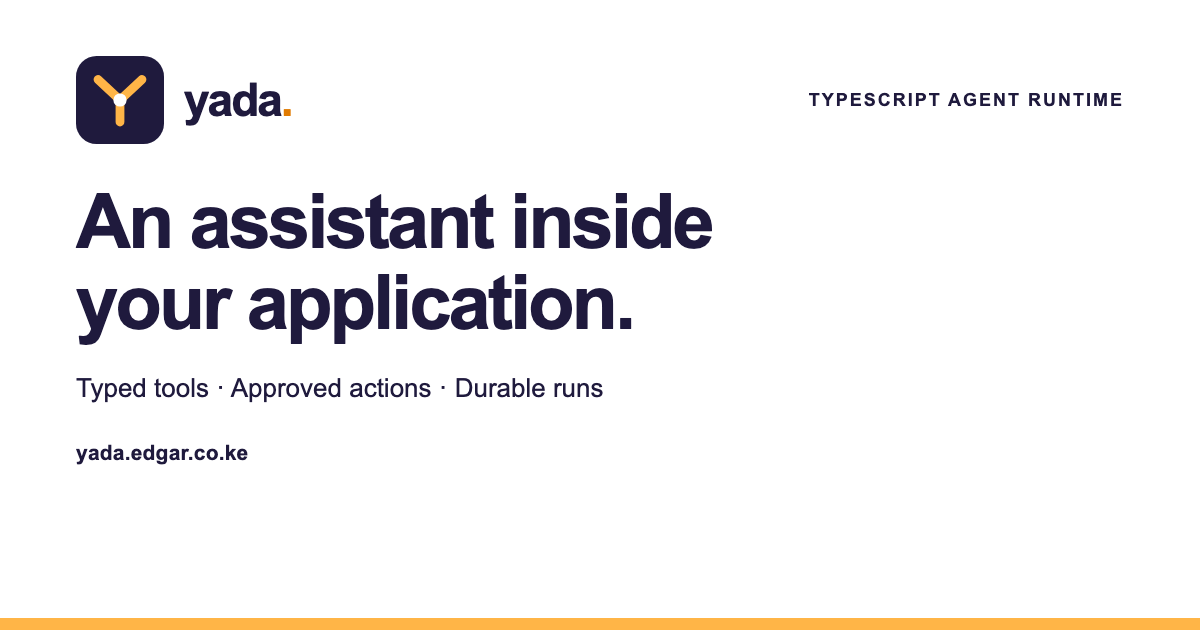
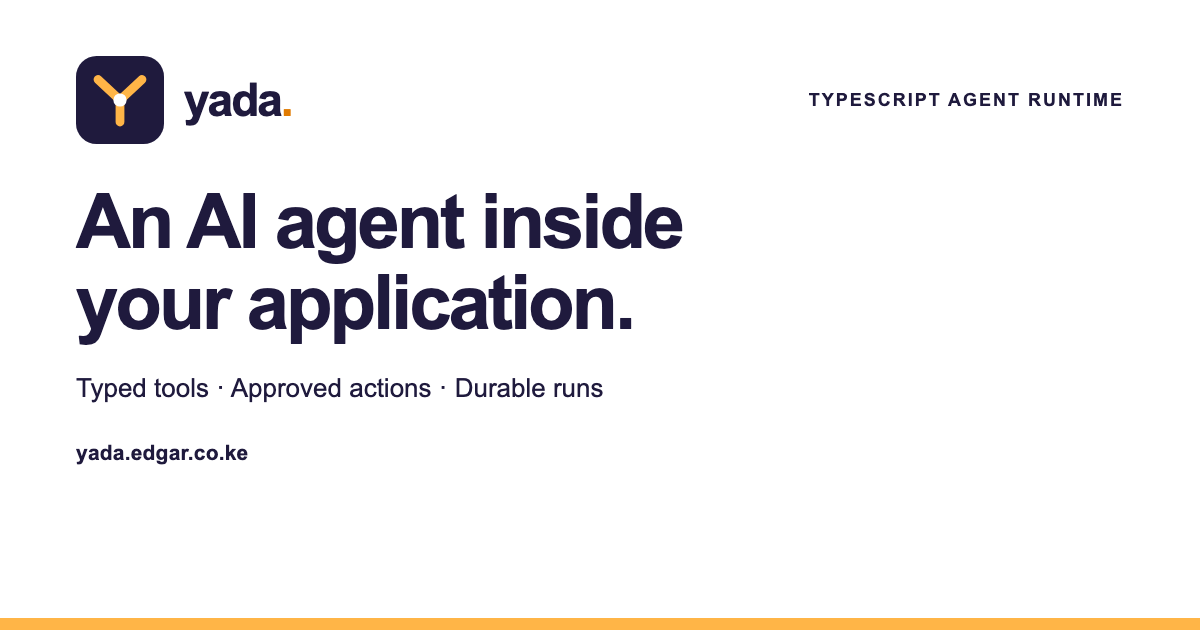
Describe Yada as an agent runtime on the website
Developers search for agents, and the word signals tool use and actions. The end-user chat stays an assistant.

Changed region(s): [[0.1542, 0.3016, 0.6167, 0.4222]]

diff --git a/site/index.html b/site/index.html
@@ -1,7 +1,7 @@
 ---
 layout: base
-title: "Yada — TypeScript runtime for in-app AI assistants"
-description: "Yada is a TypeScript runtime for building AI assistants inside your product. Connect a model, expose your APIs as typed tools and require user approval before every write."
+title: "Yada — TypeScript runtime for in-app AI agents"
+description: "Yada is a TypeScript runtime for building AI agents inside your product. Connect a model, expose your APIs as typed tools and require user approval before every write."
 ---
 
 <main id="main" tabindex="-1">
@@ -17,14 +17,14 @@ description: "Yada is a TypeScript runtime for building AI assistants inside you
       <div class="hero-copy">
         <p class="kicker">TypeScript agent runtime for Node.js</p>
         <h1 id="hero-title">
-          Build an AI assistant that works
+          Build an AI agent that works
           <span>inside your product.</span>
         </h1>
         <p class="hero-description">
-          Yada is the server-side runtime for in-app assistants. Connect a
-          model, turn your APIs and databases into typed tools, and let users
-          approve every change. It runs in your Node backend, behind your auth,
-          with your keys.
+          Yada is the server-side runtime for in-app agents. Connect a model,
+          turn your APIs and databases into typed tools, and let users approve
+          every change. It runs in your Node backend, behind your auth, with
+          your keys.
         </p>
         <div class="hero-actions">
           <a class="button button-primary" href="#get-started">Get started</a

diff --git a/site/_layouts/base.html b/site/_layouts/base.html
@@ -79,7 +79,7 @@
               alt=""
             />yada</a
           >
-          <p>The TypeScript runtime for in-app AI assistants.</p>
+          <p>The TypeScript runtime for in-app AI agents.</p>
         </div>
         <nav aria-label="Footer navigation">
           <a href="{{ '/configuration.html' | relative_url }}">Read the docs</a
